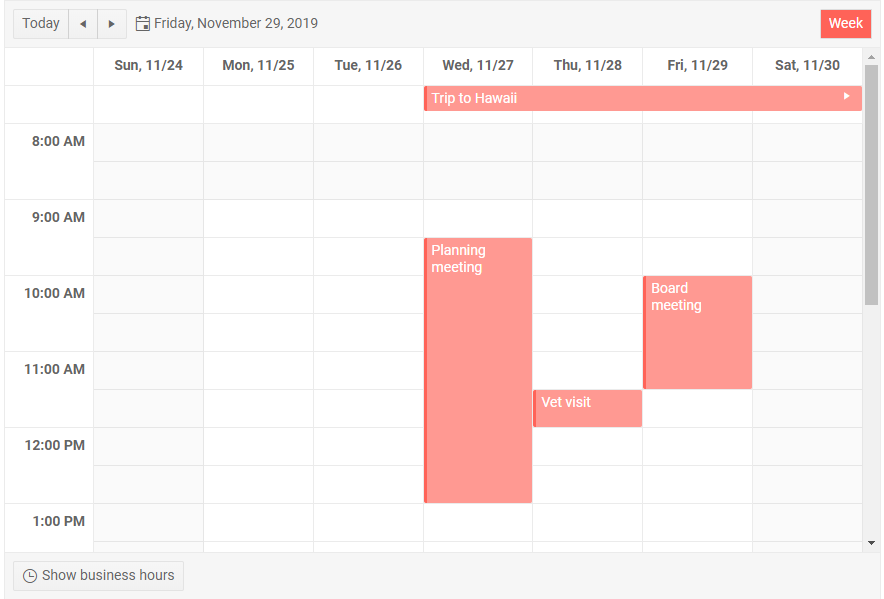
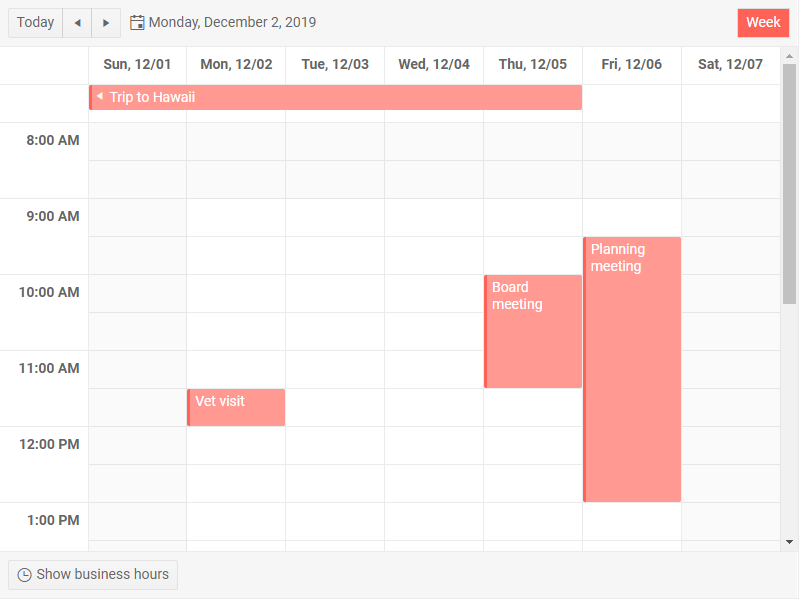
chore(scheduler): simplify examples

diff --git a/components/scheduler/views/day.md b/components/scheduler/views/day.md
@@ -33,66 +33,66 @@ In this article:
 ````CSHTML
 @* Define the day view. The screenshot above is the result from this code snippet *@
 
-<TelerikScheduler Data="@Appointments" @bind-Date="@StartDate" Height="600px" 
-                  StartField="@(nameof(SchedulerAppointment.StartTime))"
-                  EndField="@(nameof(SchedulerAppointment.EndTime))"
-                  TitleField="@(nameof(SchedulerAppointment.Title))"
-                  DescriptionField="@(nameof(SchedulerAppointment.Description))"
-                  IsAllDayField="@(nameof(SchedulerAppointment.IsAllDay))">
+<TelerikScheduler Data="@Appointments" @bind-Date="@StartDate" Height="600px">
     <SchedulerViews>
         <SchedulerDayView StartTime="@DayStart" EndTime="@DayEnd" WorkDayStart="@WorkDayStart" WorkDayEnd="@WorkDayEnd" />
     </SchedulerViews>
 </TelerikScheduler>
 
 @code {
-    public DateTime StartDate { get; set; } = new DateTime(2019, 11, 29);
+    public DateTime StartDate { get; set; } = new DateTime(2019, 12, 2);
     //the time portions are important
     public DateTime DayStart { get; set; } = new DateTime(2000, 1, 1, 8, 0, 0);
     public DateTime DayEnd { get; set; } = new DateTime(2000, 1, 1, 20, 0, 0);
     public DateTime WorkDayStart { get; set; } = new DateTime(2000, 1, 1, 9, 0, 0);
     public DateTime WorkDayEnd { get; set; } = new DateTime(2000, 1, 1, 17, 0, 0);
     List<SchedulerAppointment> Appointments = new List<SchedulerAppointment>()
-    {
+{
             new SchedulerAppointment
             {
+                Id = Guid.NewGuid(),
                 Title = "Board meeting",
                 Description = "Q4 is coming to a close, review the details.",
-                StartTime = new DateTime(2019, 11, 29, 10, 00, 0),
-                EndTime = new DateTime(2019, 11, 29, 11, 30, 0)
+                Start = new DateTime(2019, 12, 5, 10, 00, 0),
+                End = new DateTime(2019, 12, 5, 11, 30, 0)
             },
 
             new SchedulerAppointment
             {
+                Id = Guid.NewGuid(),
                 Title = "Vet visit",
                 Description = "The cat needs vaccinations and her teeth checked.",
-                StartTime = new DateTime(2019, 11, 28, 11, 30, 0),
-                EndTime = new DateTime(2019, 11, 28, 12, 0, 0)
+                Start = new DateTime(2019, 12, 2, 11, 30, 0),
+                End = new DateTime(2019, 12, 2, 12, 0, 0)
             },
 
             new SchedulerAppointment
             {
+                Id = Guid.NewGuid(),
                 Title = "Planning meeting",
                 Description = "Kick off the new project.",
-                StartTime = new DateTime(2019, 11, 30, 9, 30, 0),
-                EndTime = new DateTime(2019, 11, 30, 12, 45, 0)
+                Start = new DateTime(2019, 12, 6, 9, 30, 0),
+                End = new DateTime(2019, 12, 6, 12, 45, 0)
             },
 
             new SchedulerAppointment
             {
+                Id = Guid.NewGuid(),
                 Title = "Trip to Hawaii",
                 Description = "An unforgettable holiday!",
                 IsAllDay = true,
-                StartTime = new DateTime(2019, 11, 27),
-                EndTime = new DateTime(2019, 12, 07)
+                Start = new DateTime(2019, 11, 27),
+                End = new DateTime(2019, 12, 05)
             }
     };
 
     public class SchedulerAppointment
     {
+        public Guid Id { get; set; }
         public string Title { get; set; }
         public string Description { get; set; }
-        public DateTime StartTime { get; set; }
-        public DateTime EndTime { get; set; }
+        public DateTime Start { get; set; }
+        public DateTime End { get; set; }
         public bool IsAllDay { get; set; }
     }
 }

diff --git a/components/scheduler/views/overview.md b/components/scheduler/views/overview.md
@@ -29,12 +29,7 @@ The available views are:
 ````CSHTML
 @* The user can only choose the Day and Week views - the MultiDay view, for example, is not defined *@
 
-<TelerikScheduler Data="@Appointments" @bind-Date="@StartDate" Height="600px" @bind-View="@CurrView"
-                  StartField="@(nameof(SchedulerAppointment.StartTime))"
-                  EndField="@(nameof(SchedulerAppointment.EndTime))"
-                  TitleField="@(nameof(SchedulerAppointment.Title))"
-                  DescriptionField="@(nameof(SchedulerAppointment.Description))"
-                  IsAllDayField="@(nameof(SchedulerAppointment.IsAllDay))">
+<TelerikScheduler Data="@Appointments" @bind-Date="@StartDate" Height="600px" Width="800px">
     <SchedulerViews>
         <SchedulerDayView StartTime="@DayStart" EndTime="@DayEnd" WorkDayStart="@WorkDayStart" WorkDayEnd="@WorkDayEnd" />
         <SchedulerWeekView StartTime="@DayStart" EndTime="@DayEnd" WorkDayStart="@WorkDayStart" WorkDayEnd="@WorkDayEnd" />
@@ -42,8 +37,7 @@ The available views are:
 </TelerikScheduler>
 
 @code {
-    public DateTime StartDate { get; set; } = new DateTime(2019, 11, 29);
-    public SchedulerView CurrView { get; set; } = SchedulerView.Week;
+    public DateTime StartDate { get; set; } = new DateTime(2019, 12, 2);
     //the time portions are important
     public DateTime DayStart { get; set; } = new DateTime(2000, 1, 1, 8, 0, 0);
     public DateTime DayEnd { get; set; } = new DateTime(2000, 1, 1, 20, 0, 0);
@@ -53,36 +47,49 @@ The available views are:
     {
             new SchedulerAppointment
             {
+                Id = Guid.NewGuid(),
+                Title = "Board meeting",
+                Description = "Q4 is coming to a close, review the details.",
+                Start = new DateTime(2019, 12, 5, 10, 00, 0),
+                End = new DateTime(2019, 12, 5, 11, 30, 0)
+            },
+
+            new SchedulerAppointment
+            {
+                Id = Guid.NewGuid(),
                 Title = "Vet visit",
                 Description = "The cat needs vaccinations and her teeth checked.",
-                StartTime = new DateTime(2019, 11, 26, 11, 30, 0),
-                EndTime = new DateTime(2019, 11, 26, 12, 0, 0)
+                Start = new DateTime(2019, 12, 2, 11, 30, 0),
+                End = new DateTime(2019, 12, 2, 12, 0, 0)
             },
 
             new SchedulerAppointment
             {
+                Id = Guid.NewGuid(),
                 Title = "Planning meeting",
                 Description = "Kick off the new project.",
-                StartTime = new DateTime(2019, 11, 25, 9, 30, 0),
-                EndTime = new DateTime(2019, 11, 25, 12, 45, 0)
+                Start = new DateTime(2019, 12, 6, 9, 30, 0),
+                End = new DateTime(2019, 12, 6, 12, 45, 0)
             },
 
             new SchedulerAppointment
             {
+                Id = Guid.NewGuid(),
                 Title = "Trip to Hawaii",
                 Description = "An unforgettable holiday!",
                 IsAllDay = true,
-                StartTime = new DateTime(2019, 11, 27),
-                EndTime = new DateTime(2019, 12, 07)
+                Start = new DateTime(2019, 11, 27),
+                End = new DateTime(2019, 12, 05)
             }
     };
 
     public class SchedulerAppointment
     {
+        public Guid Id { get; set; }
         public string Title { get; set; }
         public string Description { get; set; }
-        public DateTime StartTime { get; set; }
-        public DateTime EndTime { get; set; }
+        public DateTime Start { get; set; }
+        public DateTime End { get; set; }
         public bool IsAllDay { get; set; }
     }
 }

diff --git a/components/scheduler/views/week.md b/components/scheduler/views/week.md
@@ -33,19 +33,14 @@ In this article:
 ````CSHTML
 @* Define the day view. The screenshot above is the result from this code snippet *@
 
-<TelerikScheduler Data="@Appointments" @bind-Date="@StartDate" Height="600px" 
-                  StartField="@(nameof(SchedulerAppointment.StartTime))"
-                  EndField="@(nameof(SchedulerAppointment.EndTime))"
-                  TitleField="@(nameof(SchedulerAppointment.Title))"
-                  DescriptionField="@(nameof(SchedulerAppointment.Description))"
-                  IsAllDayField="@(nameof(SchedulerAppointment.IsAllDay))">
+<TelerikScheduler Data="@Appointments" @bind-Date="@StartDate" Height="600px" Width="800px">
     <SchedulerViews>
         <SchedulerWeekView StartTime="@DayStart" EndTime="@DayEnd" WorkDayStart="@WorkDayStart" WorkDayEnd="@WorkDayEnd" />
     </SchedulerViews>
 </TelerikScheduler>
 
 @code {
-    public DateTime StartDate { get; set; } = new DateTime(2019, 11, 29);
+    public DateTime StartDate { get; set; } = new DateTime(2019, 12, 2);
     //the time portions are important
     public DateTime DayStart { get; set; } = new DateTime(2000, 1, 1, 8, 0, 0);
     public DateTime DayEnd { get; set; } = new DateTime(2000, 1, 1, 20, 0, 0);
@@ -55,48 +50,52 @@ In this article:
     {
             new SchedulerAppointment
             {
+                Id = Guid.NewGuid(),
                 Title = "Board meeting",
                 Description = "Q4 is coming to a close, review the details.",
-                StartTime = new DateTime(2019, 11, 29, 10, 00, 0),
-                EndTime = new DateTime(2019, 11, 29, 11, 30, 0)
+                Start = new DateTime(2019, 12, 5, 10, 00, 0),
+                End = new DateTime(2019, 12, 5, 11, 30, 0)
             },
 
             new SchedulerAppointment
             {
+                Id = Guid.NewGuid(),
                 Title = "Vet visit",
                 Description = "The cat needs vaccinations and her teeth checked.",
-                StartTime = new DateTime(2019, 11, 28, 11, 30, 0),
-                EndTime = new DateTime(2019, 11, 28, 12, 0, 0)
+                Start = new DateTime(2019, 12, 2, 11, 30, 0),
+                End = new DateTime(2019, 12, 2, 12, 0, 0)
             },
 
             new SchedulerAppointment
             {
+                Id = Guid.NewGuid(),
                 Title = "Planning meeting",
                 Description = "Kick off the new project.",
-                StartTime = new DateTime(2019, 11, 27, 9, 30, 0),
-                EndTime = new DateTime(2019, 11, 27, 12, 45, 0)
+                Start = new DateTime(2019, 12, 6, 9, 30, 0),
+                End = new DateTime(2019, 12, 6, 12, 45, 0)
             },
 
             new SchedulerAppointment
             {
+                Id = Guid.NewGuid(),
                 Title = "Trip to Hawaii",
                 Description = "An unforgettable holiday!",
                 IsAllDay = true,
-                StartTime = new DateTime(2019, 11, 27),
-                EndTime = new DateTime(2019, 12, 07)
+                Start = new DateTime(2019, 11, 27),
+                End = new DateTime(2019, 12, 05)
             }
     };
 
     public class SchedulerAppointment
     {
+        public Guid Id { get; set; }
         public string Title { get; set; }
         public string Description { get; set; }
-        public DateTime StartTime { get; set; }
-        public DateTime EndTime { get; set; }
+        public DateTime Start { get; set; }
+        public DateTime End { get; set; }
         public bool IsAllDay { get; set; }
     }
 }
-
 ````
 
 

diff --git a/components/scheduler/views/multiday.md b/components/scheduler/views/multiday.md
@@ -34,12 +34,7 @@ In this article:
 ````CSHTML
 @* Define the multiday view. The screenshot above is the result from this code snippet *@
 
-<TelerikScheduler Data="@Appointments" @bind-Date="@StartDate" Height="600px"
-                  StartField="@(nameof(SchedulerAppointment.StartTime))"
-                  EndField="@(nameof(SchedulerAppointment.EndTime))"
-                  TitleField="@(nameof(SchedulerAppointment.Title))"
-                  DescriptionField="@(nameof(SchedulerAppointment.Description))"
-                  IsAllDayField="@(nameof(SchedulerAppointment.IsAllDay))">
+<TelerikScheduler Data="@Appointments" @bind-Date="@StartDate" Height="600px" Width="800px">
     <SchedulerViews>
         <SchedulerMultiDayView StartTime="@DayStart" EndTime="@DayEnd" WorkDayStart="@WorkDayStart" WorkDayEnd="@WorkDayEnd" NumberOfDays="10" />
     </SchedulerViews>
@@ -56,44 +51,49 @@ In this article:
     {
             new SchedulerAppointment
             {
+                Id = Guid.NewGuid(),
                 Title = "Board meeting",
                 Description = "Q4 is coming to a close, review the details.",
-                StartTime = new DateTime(2019, 12, 5, 10, 00, 0),
-                EndTime = new DateTime(2019, 12, 5, 11, 30, 0)
+                Start = new DateTime(2019, 12, 5, 10, 00, 0),
+                End = new DateTime(2019, 12, 5, 11, 30, 0)
             },
 
             new SchedulerAppointment
             {
+                Id = Guid.NewGuid(),
                 Title = "Vet visit",
                 Description = "The cat needs vaccinations and her teeth checked.",
-                StartTime = new DateTime(2019, 11, 29, 11, 30, 0),
-                EndTime = new DateTime(2019, 11, 29, 12, 0, 0)
+                Start = new DateTime(2019, 12, 2, 11, 30, 0),
+                End = new DateTime(2019, 12, 2, 12, 0, 0)
             },
 
             new SchedulerAppointment
             {
+                Id = Guid.NewGuid(),
                 Title = "Planning meeting",
                 Description = "Kick off the new project.",
-                StartTime = new DateTime(2019, 12, 6, 9, 30, 0),
-                EndTime = new DateTime(2019, 12, 6, 12, 45, 0)
+                Start = new DateTime(2019, 12, 6, 9, 30, 0),
+                End = new DateTime(2019, 12, 6, 12, 45, 0)
             },
 
             new SchedulerAppointment
             {
+                Id = Guid.NewGuid(),
                 Title = "Trip to Hawaii",
                 Description = "An unforgettable holiday!",
                 IsAllDay = true,
-                StartTime = new DateTime(2019, 11, 27),
-                EndTime = new DateTime(2019, 12, 05)
+                Start = new DateTime(2019, 11, 27),
+                End = new DateTime(2019, 12, 05)
             }
     };
 
     public class SchedulerAppointment
     {
+        public Guid Id { get; set; }
         public string Title { get; set; }
         public string Description { get; set; }
-        public DateTime StartTime { get; set; }
-        public DateTime EndTime { get; set; }
+        public DateTime Start { get; set; }
+        public DateTime End { get; set; }
         public bool IsAllDay { get; set; }
     }
 }
